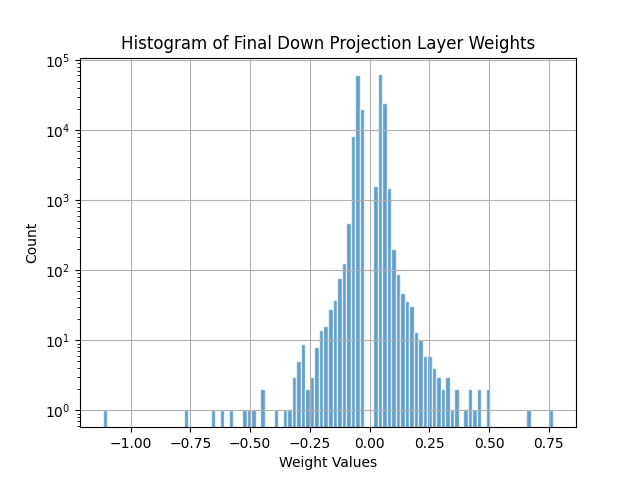
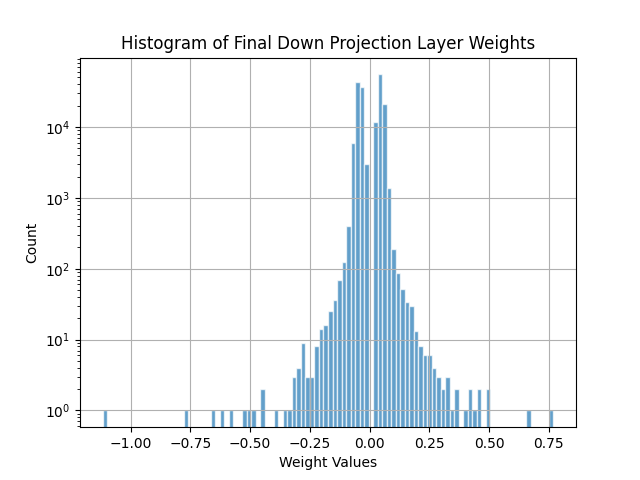
Update notes and distributions

diff --git a/notes.md b/notes.md
@@ -3,3 +3,7 @@
 though still quite bad and also the loss may even be higher
 * PPL went back up to 5k at end of two epochs despite loss going down (this
 was with wrong clipping, but realistically, not sure how much of an effect this would be)might need to just train to end and see...
+
+# A40 train times
+* Clipping ~9 min
+* Train 2 epochs ~ 1hr
